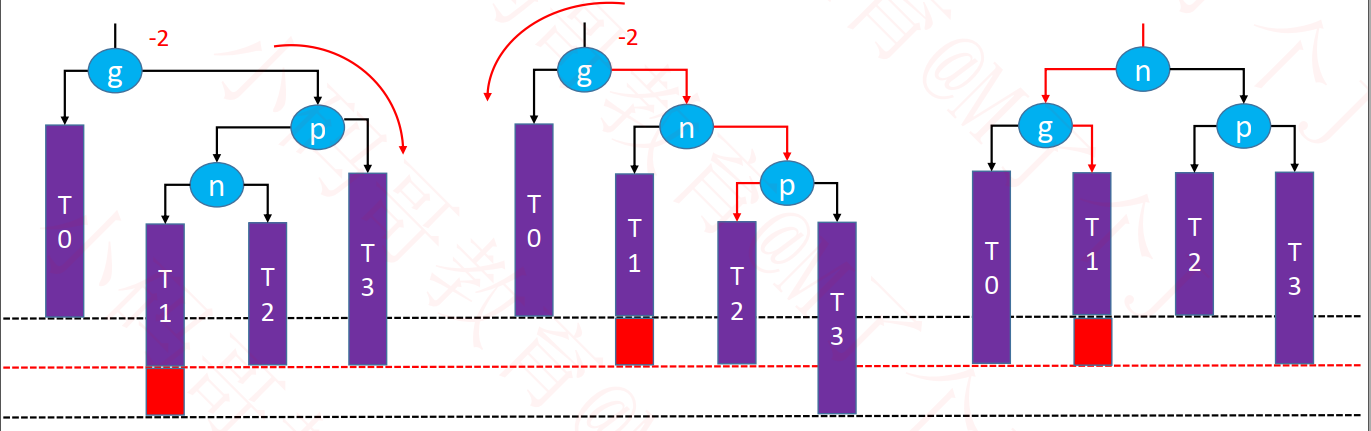
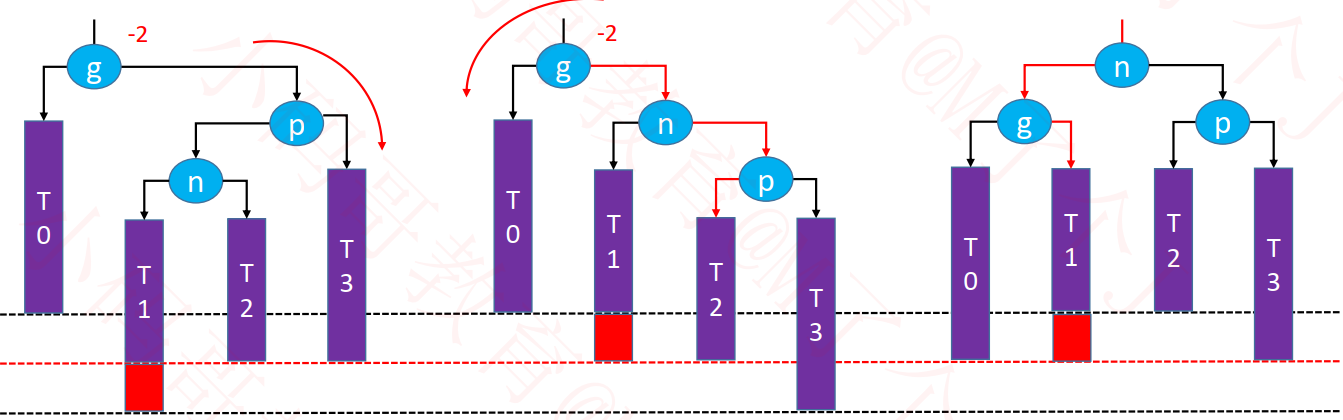
avl树

diff --git a/1.Java基础/Java数据结构/数据结构：非线性.md b/1.Java基础/Java数据结构/数据结构：非线性.md
@@ -152,39 +152,50 @@
 
 ### 1.4.2.旋转
 
+AVL树的旋转分为**单旋**和**双旋**
+
+- 单旋：<u>只旋转一次，针对失衡节点，即谁失衡谁旋转</u>
+- 双旋：<u>旋转两次，第一次针对失衡节点的子节点，后一次针对失衡节点。即谁失衡，先对它的子节点旋转，自己再旋转</u>
+
 #### 1.4.2.1.LL-右旋(单旋)
 
-假设一颗AVL树添加了一个新节点，导致了【g】失衡，它失衡了，就需要对它做旋转处理：
+原先没有`红色节点`（注意颜色没有任何意义，只是为了醒目）之前，【g】、【p】、【n】是各自平衡，但是加了`红色节点`，【p】和【n】继续保持平衡，但是【g】不平衡了，且该`红色节点`位于【g】的左子树节点的左子树部分（即left-left，简称LL），所以需要对【g】做`右旋`操作（可以这样理解，左边部分已经失衡了，所以需要往右边靠一靠）在单旋操作中，谁失衡，就对谁旋转，具体步骤为：
 
-- g.left = p.right，让【g】的子节点【p】的右子树变为【g】的左子树
-- p.right = g，然后让原先【g】的子节点【p】变为该子树的根节点，同时【g】作为【p】的右子树
-- 处理p和g的高度以及parent指针
+- g.left = p.right，先让【p】的右子树`T2`变为【g】的左子树；
+- p.right = g，再【p】变为该子树的新的根节点，同时【g】作为【p】的右子树，其余保持不变；
+- 处理p和g的高度以及parent指针。
 
 ![](./images/AVL树右旋.png)
 
 #### 1.4.2.2.RR-左旋(单旋)
 
-假设一颗AVL树添加了一个新节点，导致了【g】失衡，它失衡了，就需要【g】对做旋转处理：
+原先没有`红色节点`（注意颜色没有任何意义，只是为了醒目）之前，【g】、【p】、【n】是各自平衡，但是加了`红色节点`，【p】和【n】继续保持平衡，但是【g】不平衡了，且该`红色节点`位于【g】的右子树节点的右子树部分（即right-right，简称RR），所以需要对【g】做`左旋`操作（可以这样理解，右边部分已经失衡了，所以需要往左边靠一靠）在单旋操作中，谁失衡就对谁旋转，具体步骤为：
 
-- g.right = p.left，让【g】的子节点【p】的左子树变为【g】的右子树
-- p.left = g，然后让原先【g】的子节点【p】变为该子树的根节点，同时【g】作为【p】的左子树
-- 处理p和g的高度以及parent指针
+- g.right = p.left，先让【p】的左子树`T1`变为【g】的右子树；
+- p.left = g，再让【p】变为该子树的新的根节点，同时【g】作为【p】的左子树，其余保持不变；
+- 处理p和g的高度以及parent指针。
 
 ![](./images/AVL树左旋.png)
 
 #### 1.4.2.3.LR-RR左旋&右旋(双旋)
 
-假设一颗AVL树添加了一个新节点，导致了【g】失衡，它失衡了，就需要【g】对做旋转处理：
+原先没有`红色节点`（注意颜色没有任何意义，只是为了醒目）之前，【g】、【p】、【n】是各自平衡，但是加了`红色节点`，【p】和【n】继续保持平衡，但是【g】不平衡了，且该`红色节点`位于【g】的左子树节点的右子树部分（left-right，称为LR），这就比较复杂，属于双旋操作。因为现在是左子树先失衡了，就让它失衡得彻底，所以先左旋；这样做的结果就会导致**左边完全失衡**，后面就可以依据单旋的经验，再进行右旋即可。双旋跟单旋有个区别，单旋都是谁失衡谁旋转；双旋不是，它需要先让子节点旋转后自己再旋转。
 
-- 先对【p】左旋，使得【n】成为左半部分新的根节点，【p】作为【n】的左子树；
+`红色节点`的加入，导致了【g】失衡，且该`红色节点`位于左子节点的右子树部分，所以需要先对【g】的左子树【p】进行左旋（让这棵AVL树的左子树彻底失衡），最后再对【g】做右旋操作。具体步骤为：
 
-- 然后，再对【g】右旋，使得【n】成为最终的根节点，【g】作为【n】的右子树
+- 先对【p】左旋，使得【n】成为左下部分新的根节点，【p】作为【n】的左子树；
+
+- 然后，再对【g】右旋，使得【n】成为最终的根节点，【g】作为【n】的右子树。
 
   ![](./images/AVL树先左旋后右旋.png)
 
 #### 1.4.2.4.RL-LL右旋&左旋(双旋)
 
-- 先对【p】进行右旋，让【n】成为右下部分的根节点，【p】作为【n】的右子树
+原先没有`红色节点`（注意颜色没有任何意义，只是为了醒目）之前，【g】、【p】、【n】是各自平衡，但是加了`红色节点`，【p】和【n】继续保持平衡，但是【g】不平衡了，且该`红色节点`位于【g】的右子树节点的左子树部分（right-left，称为RL），这就比较复杂，属于双旋操作。因为现在是右子树先失衡了，就让它失衡得彻底，所以先右旋；这样做的结果就会导致**右边完全失衡**，后面就可以依据单旋的经验，再进行左旋即可。双旋跟单旋有个区别，单旋都是谁失衡谁旋转；双旋不是，它需要先让子节点旋转后自己再旋转。
+
+`红色节点`的加入，导致了【g】失衡，且该`红色节点`位于右子节点的左子树部分，所以需要先对【g】的右子树【p】进行右旋（让这棵AVL树的右子树彻底失衡），最后再对【g】做左旋操作。具体步骤为：
+
+- 先对【p】进行右旋，让【n】成为右下部分新的根节点，【p】作为【n】的右子树
 - 再对【g】进行左旋，让【n】成为最终的根节点，【g】作为【n】的左子树
 
 ![](./images/AVL树先右旋后左旋.png)
